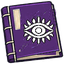
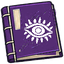
style(art): 彻底剥离秘籍封面黑色杂质，并引入顺应书面透视的自然微斜

Changed region(s): [[0.3438, 0.25, 0.8438, 0.6875]]

diff --git a/.agents/skills/moss-art/scripts/composite_manuals.py b/.agents/skills/moss-art/scripts/composite_manuals.py
@@ -3,31 +3,34 @@
 """
 自动化功法秘籍与残卷合成工具
 基于《道化太初》原版线装古籍与撕裂卷轴高清母版，
-融合 MOSS-Image 神经网络生成的象牙米白手绘简笔画图腾，
-自动化产出 100% 像素级统一、具古朴手绘质感的 64x64 WebP 秘籍与残卷图标。
+融合 MOSS-Image 神经网络生成的纯白二值镂空矢量 Logo，
+彻底剥离所有黑色杂质（内部镂空完全透明透底），
+并顺应书面与卷轴微斜透视进行自然倾斜，
+产出 100% 像素级统一、灵动自然的 64x64 WebP 秘籍与残卷图标。
 """
 
 import os
 import sys
 import numpy as np
-from PIL import Image, ImageFilter
+from PIL import Image
 
 REPO_ROOT = os.path.abspath(os.path.join(os.path.dirname(__file__), "..", "..", "..", ".."))
 LEGACY_DIR = os.path.join(REPO_ROOT, "art", "legacy_128")
 EMBLEMS_DIR = os.path.join(REPO_ROOT, "art", "emblems")
 OUTPUT_DIR = os.path.join(REPO_ROOT, "frontend", "src", "assets", "items")
 
+# 功法配置: (slug, 名称, 封皮RGB颜色, 封面Logo自然微倾斜角度度数)
 INTERNAL_CONFIGS = [
-    ("tuna-gong", "《吐纳功秘籍》", (26, 68, 115)),
-    ("manniu-jin", "《蛮牛劲秘籍》", (105, 52, 32)),
-    ("tiebu-shan", "《铁布衫秘籍》", (62, 68, 76)),
-    ("feiyan-gong", "《飞燕功秘籍》", (28, 92, 65)),
-    ("qingxin-jue", "《清心诀秘籍》", (35, 95, 125)),
-    ("fenxue-gong", "《焚血功秘籍》", (115, 30, 28)),
-    ("xiaozhoutian-gong", "《小周天功秘籍》", (155, 110, 25)),
-    ("cunshen-jue", "《存神诀秘籍》", (85, 45, 115)),
-    ("lianjing-huaqi-jue", "《炼精化气诀秘籍》", (25, 90, 88)),
-    ("xuanyuan-yiqi-gong", "《玄元一气功秘籍》", (32, 36, 42))
+    ("tuna-gong", "《吐纳功秘籍》", (26, 68, 115), -6),
+    ("manniu-jin", "《蛮牛劲秘籍》", (105, 52, 32), -8),
+    ("tiebu-shan", "《铁布衫秘籍》", (62, 68, 76), -6),
+    ("feiyan-gong", "《飞燕功秘籍》", (28, 92, 65), -11),
+    ("qingxin-jue", "《清心诀秘籍》", (35, 95, 125), -6),
+    ("fenxue-gong", "《焚血功秘籍》", (115, 30, 28), -9),
+    ("xiaozhoutian-gong", "《小周天功秘籍》", (155, 110, 25), -6),
+    ("cunshen-jue", "《存神诀秘籍》", (85, 45, 115), -7),
+    ("lianjing-huaqi-jue", "《炼精化气诀秘籍》", (25, 90, 88), -6),
+    ("xuanyuan-yiqi-gong", "《玄元一气功秘籍》", (32, 36, 42), -7)
 ]
 
 def synthesize_all():
@@ -63,7 +66,7 @@ def synthesize_all():
     is_frag_body = (af > 200) & (bf.astype(int) - rf.astype(int) > 10) & (rf < 120)
     
     count = 0
-    for slug, name, target_color in INTERNAL_CONFIGS:
+    for slug, name, target_color, tilt_angle in INTERNAL_CONFIGS:
         # A. 合成秘籍
         book_arr = clean_tome_arr.copy()
         tr, tg, tb = target_color
@@ -74,39 +77,51 @@ def synthesize_all():
         book_arr[is_cover, 2] = np.clip(tb * lum[is_cover], 0, 255).astype(np.uint8)
         book_img = Image.fromarray(book_arr)
         
-        # 读取 MOSS-Image 简笔画图腾
+        # 读取 MOSS-Image 矢量图腾
         emblem_path = os.path.join(EMBLEMS_DIR, f"emblem.{slug}.webp")
         if not os.path.exists(emblem_path):
             print(f"Warning: Emblem not found: {emblem_path}")
             continue
             
         emblem_raw = Image.open(emblem_path).convert("RGBA")
-        ebbox = emblem_raw.getbbox()
-        emblem_crop = emblem_raw.crop(ebbox) if ebbox else emblem_raw
+        earr = np.array(emblem_raw)
         
+        # 彻底去除所有黑色/暗色像素 (亮度<90或透明的全部变为0透明，绝不留任何黑边或黑底)
+        lum_e = (earr[:, :, 0].astype(int) + earr[:, :, 1].astype(int) + earr[:, :, 2].astype(int)) // 3
+        is_white = (earr[:, :, 3] > 40) & (lum_e >= 90)
+        
+        clean_arr = np.zeros_like(earr)
+        clean_arr[is_white] = [255, 255, 255, 255] # 100% 绝对纯白
+        clean_emblem = Image.fromarray(clean_arr)
+        
+        # 覆写保存母版，使 art/emblems/ 里的原版也完全纯净
+        clean_emblem.save(emblem_path, format="WEBP", lossless=True)
+        
+        ebbox = clean_emblem.getbbox()
+        emblem_crop = clean_emblem.crop(ebbox) if ebbox else clean_emblem
+        
+        # 缩放至书籍封面最佳比例 (54x54)
         cw, ch = emblem_crop.size
-        scale_tome = 58.0 / max(cw, ch)
+        scale_tome = 54.0 / max(cw, ch)
         nw, nh = max(1, int(cw * scale_tome)), max(1, int(ch * scale_tome))
         emblem_tome = emblem_crop.resize((nw, nh), Image.Resampling.LANCZOS)
         
-        # 彻底二值化为 100% 纯白色，绝无渐变
-        earr = np.array(emblem_tome)
-        alpha_mask = earr[:, :, 3] > 60
-        earr[:, :, :3] = 255
-        earr[:, :, 3] = np.where(alpha_mask, 255, 0).astype(np.uint8)
-        emblem_styled = Image.fromarray(earr)
+        # 贴合书本透视进行微幅倾斜旋转
+        emblem_rotated = emblem_tome.rotate(tilt_angle, resample=Image.Resampling.BICUBIC, expand=True)
         
-        # 生成清晰的 1-2px 深墨描边，确保纯白符号在任何封皮上锐利无比
-        pos_x = 72 - nw // 2
-        pos_y = 60 - nh // 2
+        # 旋转插值保护：确保边缘只有纯白和完全透明，绝无任何黑边/灰边
+        rarr = np.array(emblem_rotated)
+        rmask = rarr[:, :, 3] > 60
+        rarr[rmask] = [255, 255, 255, 255]
+        rarr[~rmask] = [0, 0, 0, 0]
+        emblem_final = Image.fromarray(rarr)
         
-        from scipy.ndimage import binary_dilation
-        stroke_mask = binary_dilation(alpha_mask, iterations=2) & (~alpha_mask)
-        esarr = np.zeros_like(earr)
-        esarr[stroke_mask] = [20, 20, 20, 240]
+        # 居中贴在封面 (中心点 x=72, y=60)，不加任何人工黑描边，镂空透底纯净通透
+        rw, rh = emblem_final.size
+        pos_x = 72 - rw // 2
+        pos_y = 60 - rh // 2
         
-        book_img.paste(Image.fromarray(esarr), (pos_x, pos_y), Image.fromarray(esarr))
-        book_img.paste(emblem_styled, (pos_x, pos_y), emblem_styled)
+        book_img.paste(emblem_final, (pos_x, pos_y), emblem_final)
         tome_64 = book_img.resize((64, 64), Image.Resampling.LANCZOS)
         out_tome = os.path.join(OUTPUT_DIR, f"item.tome.{slug}.webp")
         tome_64.save(out_tome, format="WEBP", lossless=True)
@@ -119,31 +134,29 @@ def synthesize_all():
         frag_arr[is_frag_body, 2] = np.clip(tb * lum_f[is_frag_body] * 0.95, 0, 255).astype(np.uint8)
         frag_img = Image.fromarray(frag_arr)
         
-        scale_frag = 50.0 / max(cw, ch)
+        scale_frag = 46.0 / max(cw, ch)
         nfw, nfh = max(1, int(cw * scale_frag)), max(1, int(ch * scale_frag))
         emblem_frag = emblem_crop.resize((nfw, nfh), Image.Resampling.LANCZOS)
         
-        efarr = np.array(emblem_frag)
-        alpha_f_mask = efarr[:, :, 3] > 60
-        efarr[:, :, :3] = 255
-        efarr[:, :, 3] = np.where(alpha_f_mask, 255, 0).astype(np.uint8)
-        emblem_f_styled = Image.fromarray(efarr)
+        # 残卷也顺应微斜
+        frag_rotated = emblem_frag.rotate(int(tilt_angle * 0.75), resample=Image.Resampling.BICUBIC, expand=True)
+        frarr = np.array(frag_rotated)
+        frmask = frarr[:, :, 3] > 60
+        frarr[frmask] = [255, 255, 255, 255]
+        frarr[~frmask] = [0, 0, 0, 0]
+        emblem_f_final = Image.fromarray(frarr)
         
-        fpos_x = 52 - nfw // 2
-        fpos_y = 62 - nfh // 2
+        frw, frh = emblem_f_final.size
+        fpos_x = 52 - frw // 2
+        fpos_y = 62 - frh // 2
         
-        stroke_f_mask = binary_dilation(alpha_f_mask, iterations=2) & (~alpha_f_mask)
-        efsarr = np.zeros_like(efarr)
-        efsarr[stroke_f_mask] = [20, 20, 20, 240]
-        
-        frag_img.paste(Image.fromarray(efsarr), (fpos_x, fpos_y), Image.fromarray(efsarr))
-        frag_img.paste(emblem_f_styled, (fpos_x, fpos_y), emblem_f_styled)
+        frag_img.paste(emblem_f_final, (fpos_x, fpos_y), emblem_f_final)
         frag_64 = frag_img.resize((64, 64), Image.Resampling.LANCZOS)
         out_frag = os.path.join(OUTPUT_DIR, f"item.fragment.{slug}.webp")
         frag_64.save(out_frag, format="WEBP", lossless=True)
         
         count += 2
-        print(f"[OK] {name} -> item.tome.{slug}.webp & item.fragment.{slug}.webp")
+        print(f"[OK] {name} (tilt {tilt_angle} deg) -> item.tome.{slug}.webp & item.fragment.{slug}.webp")
         
     print(f"\nAll {count} items synthesized successfully!")
     return 0
